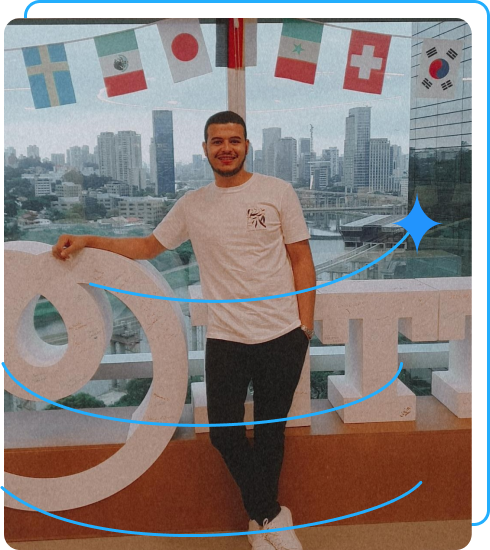
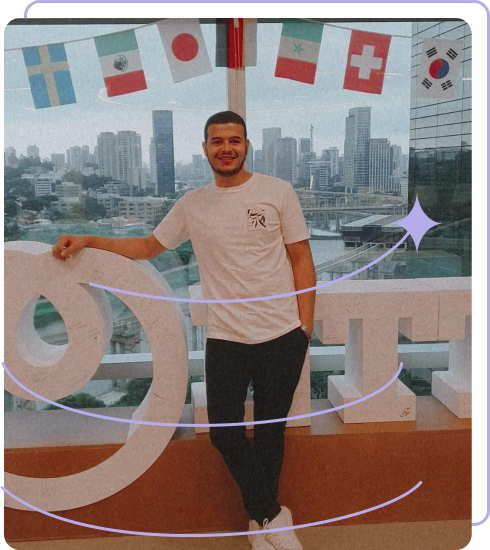
fix: hover and images

diff --git a/styles/style.css b/styles/style.css
@@ -7,6 +7,7 @@
     --cor-segundaria: #50514F;
     --cor-terciaria: #B4ADEA;
     --cor-hover: #B4ADEA;
+    --cor-hover-topicos: #5c53a2;
 
 }
 
@@ -56,7 +57,10 @@ body {
     font-size: 2rem;
     color: var(--cor-terciaria);
 }
+.cabecalho_menu_link:hover{
+    color: var(--cor-hover-topicos);
 
+}
 
 .titulo-destaque {
     color: var(--cor-terciaria);
@@ -122,16 +126,13 @@ body {
 
 .apresentacao__links__navegacao:hover {
     background-color: var(--cor-hover);
+    color: var(--cor-primaria);
 }
 
 .apresentacao_links_subtitulo {
     font-family: 'Krona One', sans-serif;
     font-weight: 400;
     font-size: 1.5rem;
-}
-
-.apresentacao__imagem {
-    width: 50%;
 }
 
 .rodape {
@@ -159,6 +160,9 @@ body {
     }
     .apresentacao__conteudo{
         width: auto;
+    }
+    .apresentacao__imagem {
+        width: 85%;
     }
 
 }

diff --git a/index.html b/index.html
@@ -47,7 +47,7 @@
             </div>
 
         </section>
-        <img src="assets/alisson.png" alt="Foto do Alisson">
+        <img src="assets/alisson.png" alt="Foto do Alisson" class="apresentacao__imagem">
     </main>
     <footer class="rodape">
         <p>Desenvolvido por Alura.</p>

diff --git a/README.md b/README.md
@@ -1,4 +1,4 @@
-[Projeto Página Web Alura](https://alisson-vml.github.io/projeto_alura_1/)
+[Projeto Página Web Alura](https://alisson-vml.github.io/projeto_alura_portifolio/)
 
 <p align = "center">
   <img src="assets/preview.png" alt="Demonstração do projeto" width="100%"/>
@@ -8,8 +8,11 @@
 
 Projeto de uma pagina web desenvolvida com a Alura
 
-## 🚀 Tecnologias
+## ✔ Tecnologias utilizadas
 
--HTML
--CSS
--Git e Github
+- ``HTML``
+- ``CSS``
+## 🏷 Layout
+
+Você pode visualizar o layout do projeto através
+[desse link](https://www.figma.com/file/NrzJacC887svMVfF9oC2jM/Portfolio-Projeto-2?type=design&mode=design&t=7JTw0Gt8gzPPgKvh-0).
